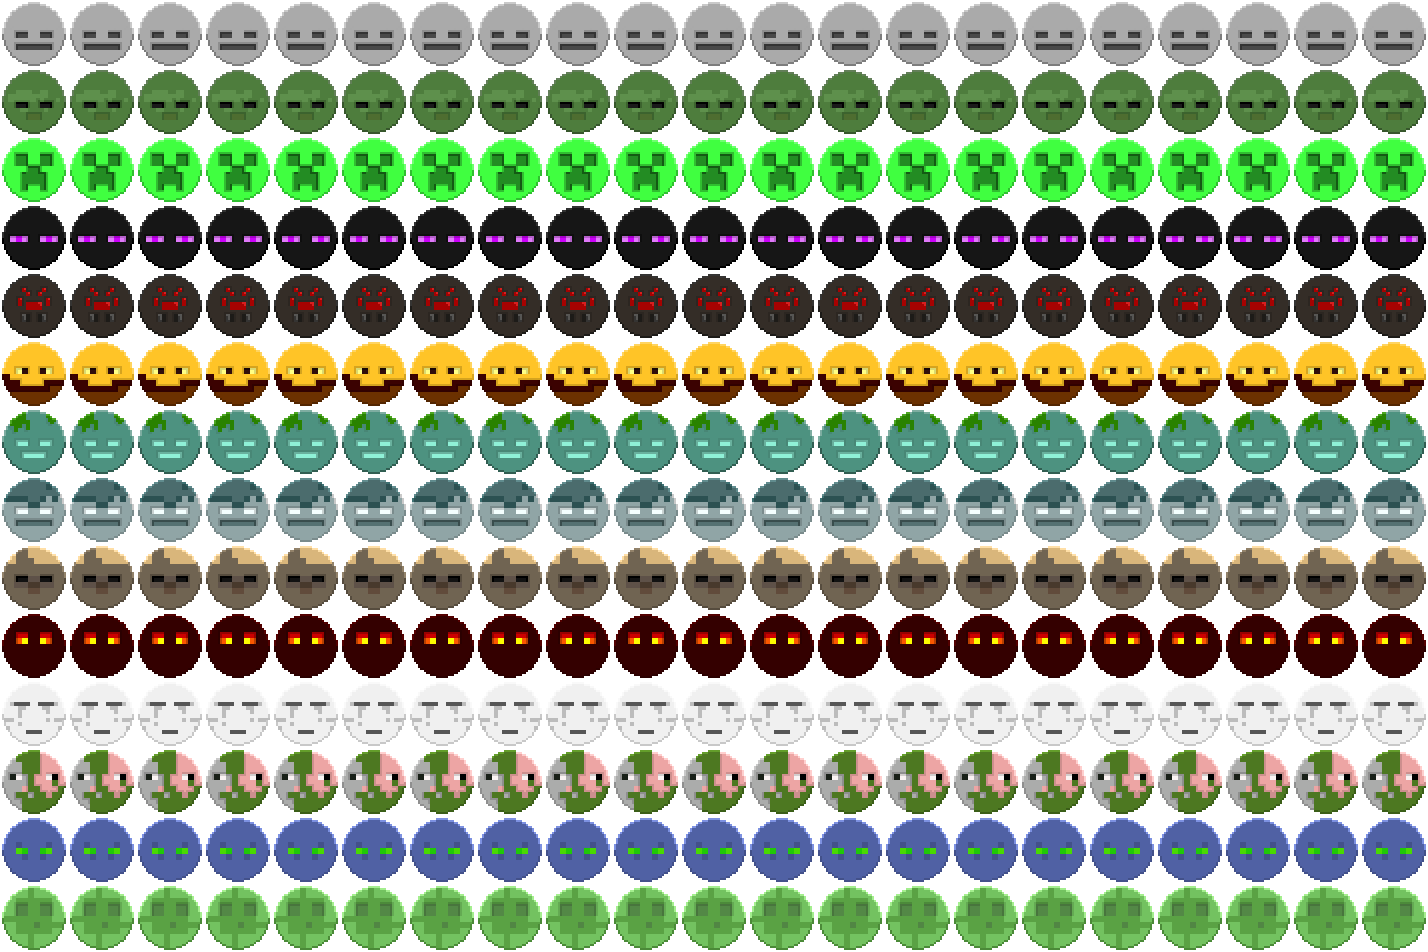
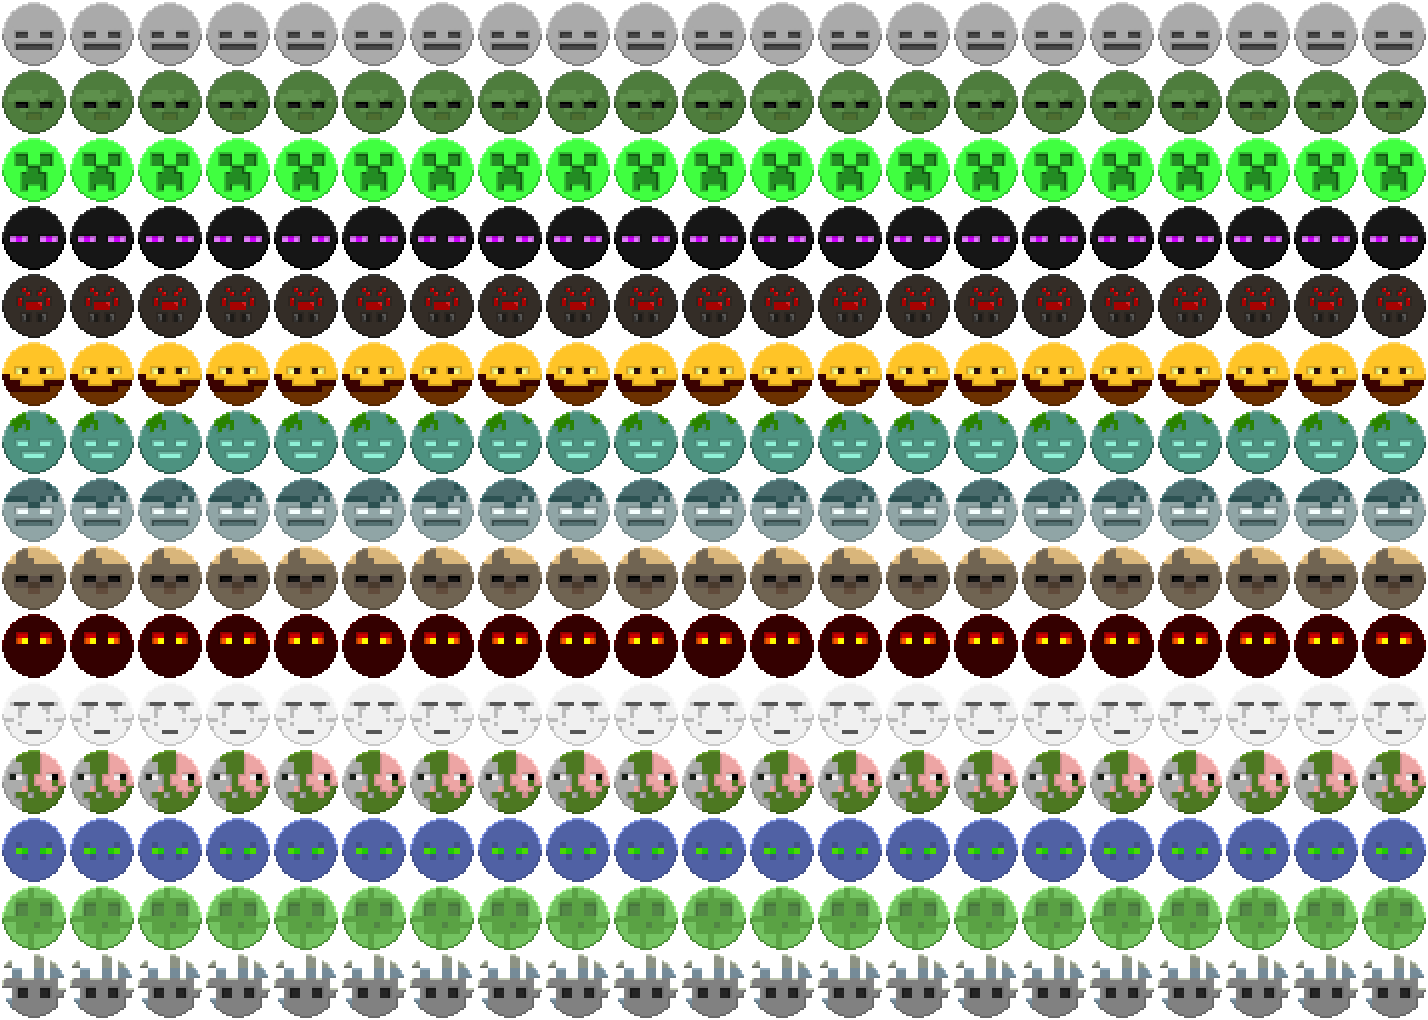
silverfish implemented, but no animation nor sound

diff --git a/assets/utils.py b/assets/utils.py
@@ -140,7 +140,8 @@ if __name__ == "__main__":
         "Ghast", # 10
         "Zombiepigman", # 11
         "Phantom", # 12
-        "Slime" # 13
+        "Slime", # 13
+        "Silverfish" # 14
     ]
 
     for boss in bosses:

diff --git a/content/wiki/New Bosses.md b/content/wiki/New Bosses.md
@@ -1,14 +1,14 @@
 ## Normal Boss blinds
 ### Overworld
 [ ] ***Creaking***: 
-[ ] ***Creeper***: destroy a random joker after winning on last hand.
+[x] ***Creeper***: destroy a random joker after winning on last hand.
 [x] ***Drowned***: Whenever a discard is used, discard an additional random card.
 [ ] ***Enderman***: before every hand, fixes a random joker on the left.
 [ ] ***Guardian***: Destroys every card that stayed in hand for at least 2 played hands.
 [ ] ***Husk***: 
 [ ] ***Phantom***: 3X if no blind was skipped this ante.
 [x] ***Skeleton***: destroy a random card in hand after playing poker hand. 
-[ ] ***Silverfish***: X1.5 after every hand played.
+[ ] ***Silverfish***: after every hand played, score requirement increases by X1.5.
 [ ] ***Slime***: after beating it, next ante small blind and big blind are X1.5 and X1.25 respectively.
 [ ] ***Spider***: disable all card enhancement.
 [ ] ***Stray***: 
